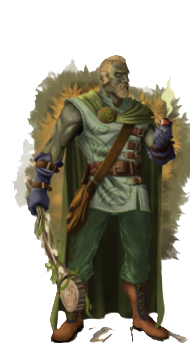
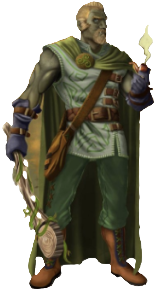
Fill out characters and some images

diff --git a/FlightOfTheDragonLords/topics/8th-of-Cuarta-to.md b/FlightOfTheDragonLords/topics/8th-of-Cuarta-to.md
@@ -1,0 +1,66 @@
+# 8th of Cuarta to
+
+## Travel Day 2
+
+<a href="Brother-Ethelbert.topic"/> is continuing to craft the potion
+
+<a href="Jaesk-Sanclifter.topic"/> continuing to work with his arrows. Attempted to shoot one of the arrows without
+setting it on fire. 
+
+<a href="Mimir-Brokkr.topic"/> continued to work on the <a href="alchemist_fire_thrower.topic"/>. Completed putting the 
+
+Training on the ballista
+
+## Travel Day 3
+
+Find favorable winds and make up a day (back to 10 total day)
+
+[](Brother-Ethelbert.topic) continued to craft the healing potion.
+
+[](Mimir-Brokkr.topic) crafted an oblong cone of shame to put on the front of the nozzle to prevent blow back
+from the flame.
+
+[](Petyr-Chesnov.topic) read his book, remembered a dream about a guy playing with his beads. Makes a mental
+note and swaps to a history book.
+
+[](Jaesk-Sanclifter.topic) reads notebook from father.
+
+## Travel Day 4
+
+Normal day of travel
+
+[](Petyr-Chesnov.topic) asks [](Jaesk-Sanclifter.topic) about the Fae Realm. Similar to this world but unusual random
+oddities such as an upside down house... Wouldn't ever want to be there alone.
+
+[](Mimir-Brokkr.topic) successful test of the [](alchemist_fire_thrower.topic). [](Captain-Xilno.topic) approved
+mounting it to the rear of the ship. Suggested the front as well, but afraid of blow black.
+
+## Travel Day 5
+
+[](Brother-Ethelbert.topic) feels like someone is watching him.
+
+Attacked by a [](Roc.topic). 
+
+Health
+:
+?
+
+AC
+:
+15 AC.
+
+Claw attack
+:
+39 damage
+
+Bite Attack
+:
+?
+
+Con Saving Throw
+:
++9
+
+Bonus to Hit
+:
++13
